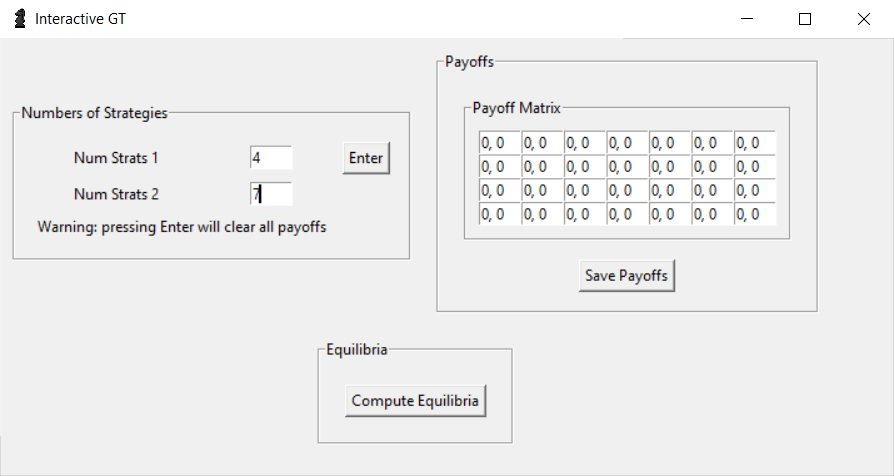
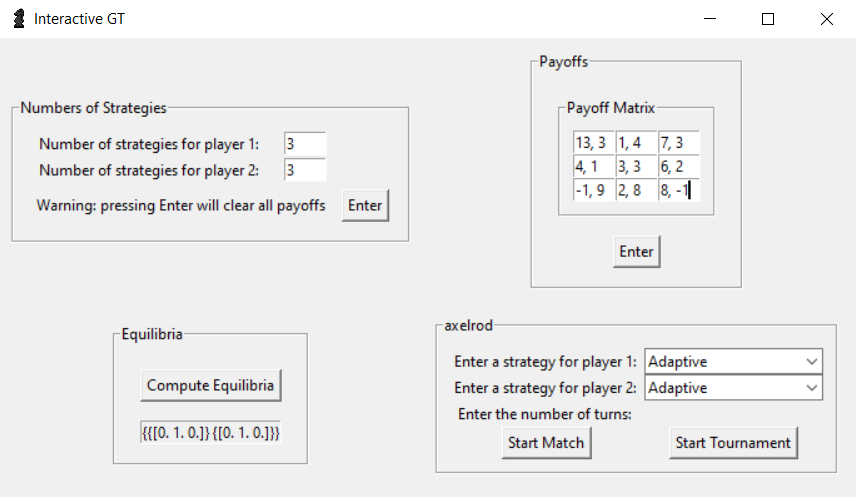
fixed compute equilibria button; moved axelrod outputs

diff --git a/gtGUI.py b/gtGUI.py
@@ -5,8 +5,19 @@ import axelrod as axl
 
 # Function definitions
 def computeEquilibria():
-    eqs = G.support_enumeration()
-    equilibriaOutput = Label(equilibriaFrame, text=list(eqs), bd=1, relief=SUNKEN, anchor=E)
+    eqs1 = G.support_enumeration()
+    eqs2 = G.support_enumeration()
+    pureEquilibria = []
+    mixedEqulibria = []
+    for e in eqs1:
+        if e[0][0] == 0.0 or e[0][0] == 1.0:
+            pureEquilibria.append(e)
+        else:
+            mixedEqulibria.append(e)
+    print(pureEquilibria)
+    print(mixedEqulibria)
+        
+    equilibriaOutput = Label(equilibriaFrame, text=list(eqs2), bd=1, relief=SUNKEN, anchor=E)    
     equilibriaOutput.pack(padx=5, pady=5)
     root.geometry("750x425")
     return
@@ -42,6 +53,7 @@ def enterPayoffs():
         p1Matrix.append(row1)
         p2Matrix.append(row2)
     
+    global G
     G = nash.Game(p1Matrix, p2Matrix)
     return
 
@@ -93,6 +105,9 @@ def startTournament():
     players = [s() for s in axl.demo_strategies]
     tournament = axl.Tournament(players=players, turns=10, repetitions=5)
     results = tournament.play() 
+    
+    axelrodOutput1.grid(row=4, column=0, columnspan=2, padx=10, pady=10, sticky=EW)
+    axelrodOutput2.grid(row=5, column=0, columnspan=2, padx=10, pady=10, sticky=EW)
     return
 
 root = Tk()
@@ -188,7 +203,6 @@ clicked1NoSpaces = clicked1.get().replace(" ", "")
 clicked2NoSpaces = clicked2.get().replace(" ", "")
 counter = 0
 while type(p1).__name__ == "str":
-    print("counter1:", counter)
     if type(options[counter]).__name__ == clicked1NoSpaces:
         p1 = options[counter]
     counter += 1
@@ -228,7 +242,5 @@ turnsLabel.grid(row=2, column=0)
 turnsEntry.grid(row=2, column=1)
 matchButton.grid(row=3,column=0)
 tournamentButton.grid(row=3,column=1)
-axelrodOutput1.grid(row=4, column=0, columnspan=2, padx=10, pady=10, sticky=EW)
-axelrodOutput2.grid(row=5, column=0, columnspan=2, padx=10, pady=10, sticky=EW)
 
 root.mainloop()

diff --git a/README.md b/README.md
@@ -1,7 +1,7 @@
 # interactive-gt
-An interactive game theory application for analyzing 2-player games using nashpy and axelrod in at tkinter GUI. 
+An interactive game theory application for analyzing 2-player games using nashpy and axelrod in a tkinter GUI. 
 
-![2 strats each](images/image1.png)
-![more strategies](images/image2.png)
-![computing equilibria](images/image3.png)
-![strictly dominated strategies](images/image4.png)
+Equilibria for a Battle of the Sexes, and an axelrod match between a Tit for Tat player and an Alternator: 
+![bos and match](images/image1.png)
+Equilibria for a three-by-three matrix with lots of strictly dominated strategies: 
+![strictly dominated strategies](images/image2.png)
